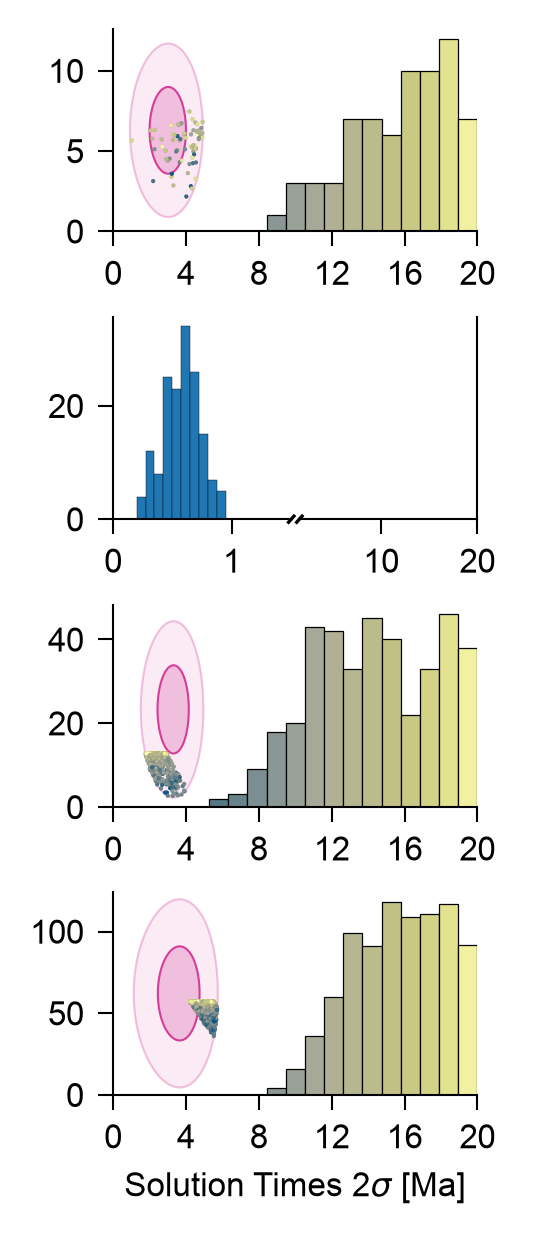
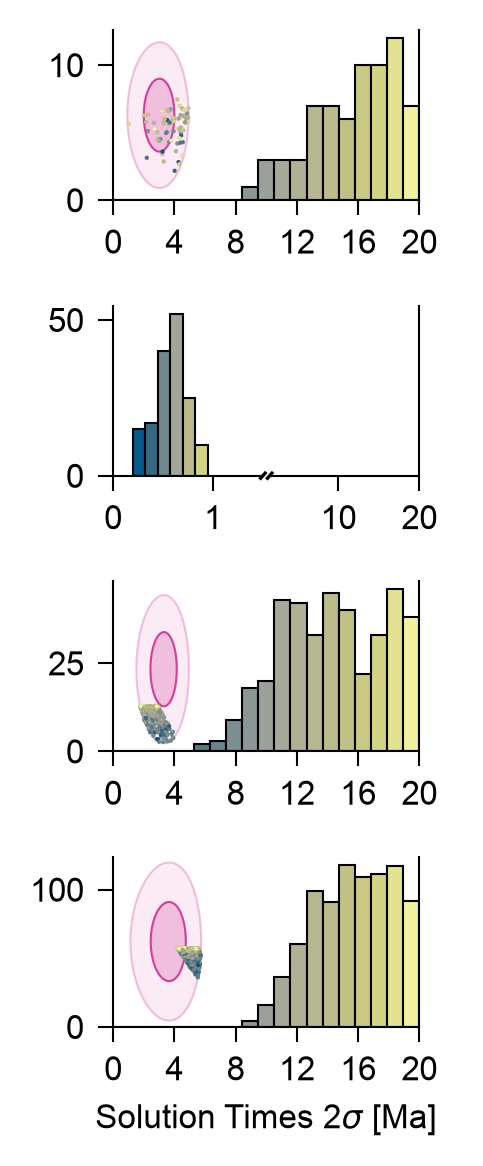
fig3_erosion_hist

diff --git a/generate_figures/scripts/Fig3_S1_4_S10_Age_solutions.py b/generate_figures/scripts/Fig3_S1_4_S10_Age_solutions.py
@@ -178,14 +178,17 @@ for i, sample_id in enumerate(samples_id):
         hist_ax2 = ax.inset_axes([w + gap, 0, w, 1], sharey=hist_ax1)
 
         for a in (hist_ax1, hist_ax2):
-            n, bins, patches = a.hist(range_age_valid_times_solution, bins=10,
-                   edgecolor="black", linewidth=0.1)
+            n, bins, patches = a.hist(range_age_valid_times_solution, bins=6,
+                   edgecolor="black", linewidth=0.5)
 
-        norm = plt.Normalize(bins.min(), bins.max())
-        cmap = plt.get_cmap(cm.nuuk)
+            norm = plt.Normalize(bins.min(), bins.max())
+            cmap = plt.get_cmap(cm.nuuk)
 
-        for bin_val, patch in zip(bins, patches):
-            patch.set_facecolor(cmap(norm(bin_val)))
+            for bin_val, patch in zip(bins, patches):
+                patch.set_facecolor(cmap(norm(bin_val)))
+        print(bins)
+
+
 
         hist_ax1.set_xlim(0, 1.5)  # adjust to your data
         hist_ax2.set_xlim(1.5, 20)  # adjust to your data
@@ -208,12 +211,10 @@ for i, sample_id in enumerate(samples_id):
         hist_ax2.plot((-d, +d), (-d, +d), **kw)
         # hist_ax2.plot((-d, +d), (1 - d, 1 + d), **kw)
 
-
-
     else:
         hist_ax = ax.inset_axes([0, 0, 0.9, 1])
         n, bins, patches = hist_ax.hist(range_age_valid_times_solution, bins=bins,
-                     edgecolor="black", linewidth=0.3)
+                     edgecolor="black", linewidth=0.5)
         hist_ax.set_xlim([0, x_lim])
 
         norm = plt.Normalize(bins.min(), bins.max())
@@ -234,8 +235,7 @@ for i, sample_id in enumerate(samples_id):
         hist_ax.yaxis.tick_left()
         hist_ax.yaxis.set_label_position("left")
         hist_ax.spines["top"].set_visible(False)
-
-        hist_ax.spines["right"].set_visible(False)
+        hist_ax.spines["right"].set_visible(True)
         hist_ax.spines["left"].set_visible(True)
 
 #
@@ -387,6 +387,7 @@ if x_lim != 20:
     fig_name_3 = f"/supporting_figures/FigS10_Full_Solutions_Profile_Ages_D{density}"
     fig.savefig(f"{plots_path}/{fig_name_3}.png", dpi=300, bbox_inches="tight")
 else:
+    fig.tight_layout()
     fig.savefig(f"{plots_path}/{fig_name}.png", dpi=300, bbox_inches="tight")
     fig.savefig(f"{plots_path}/SVG/SVG_{fig_name}.svg", format="svg", bbox_inches="tight")
 

diff --git a/support/aux_functions/nuclide_prod_concentration.py b/support/aux_functions/nuclide_prod_concentration.py
@@ -35,8 +35,8 @@ class cosmo_production:
             p_al_spa_list.append(self.A0 * math.exp(-z_cm * self.density / self.L0))
             p_be_spa_list.append(self.B0 * math.exp(-z_cm * self.density / self.L0))
 
-        print(time_list)
-        print(z_gcm2_list)
+        # print(time_list)
+        # print(z_gcm2_list)
         # Be production by muons
         P_neg_muons_be, P_fast_muons_be = self.eng.LSDn_calc_muon_prod(
             matlab.double(time_list), matlab.double(z_gcm2_list),
